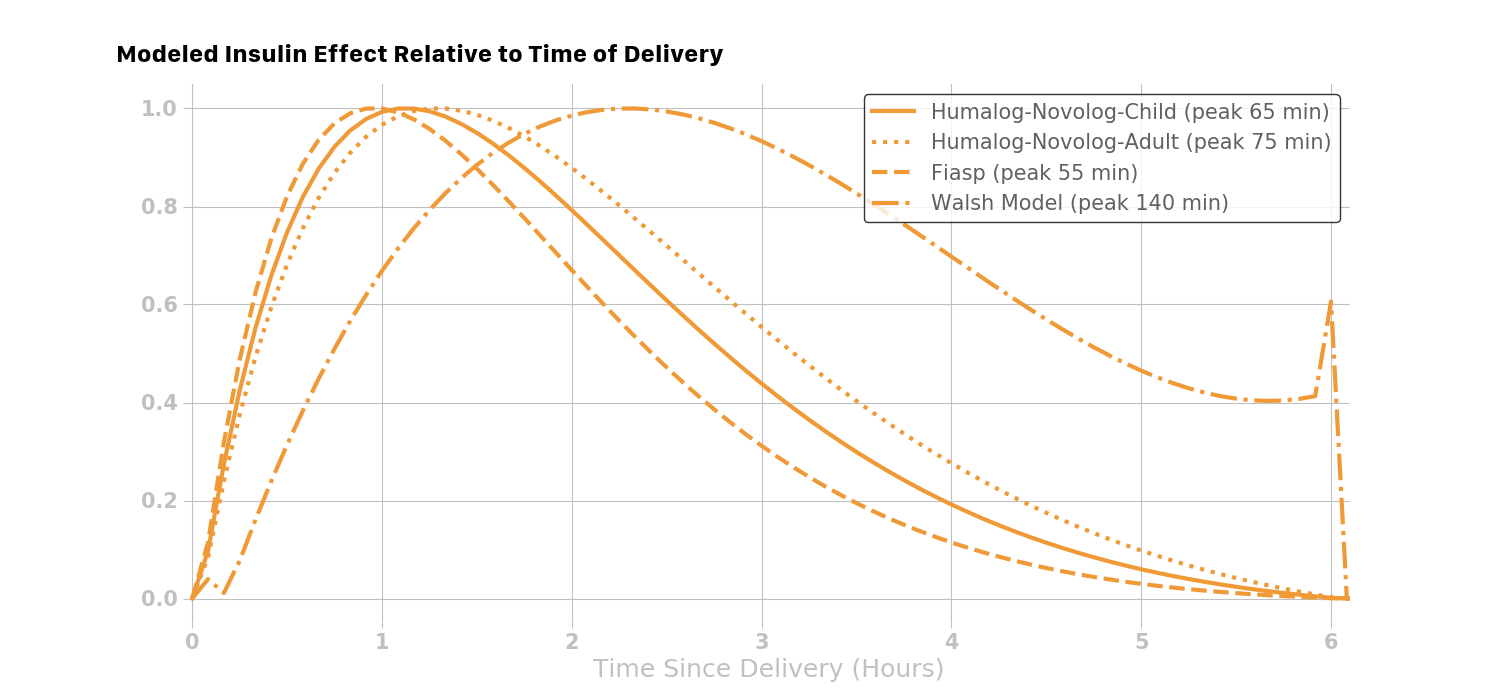
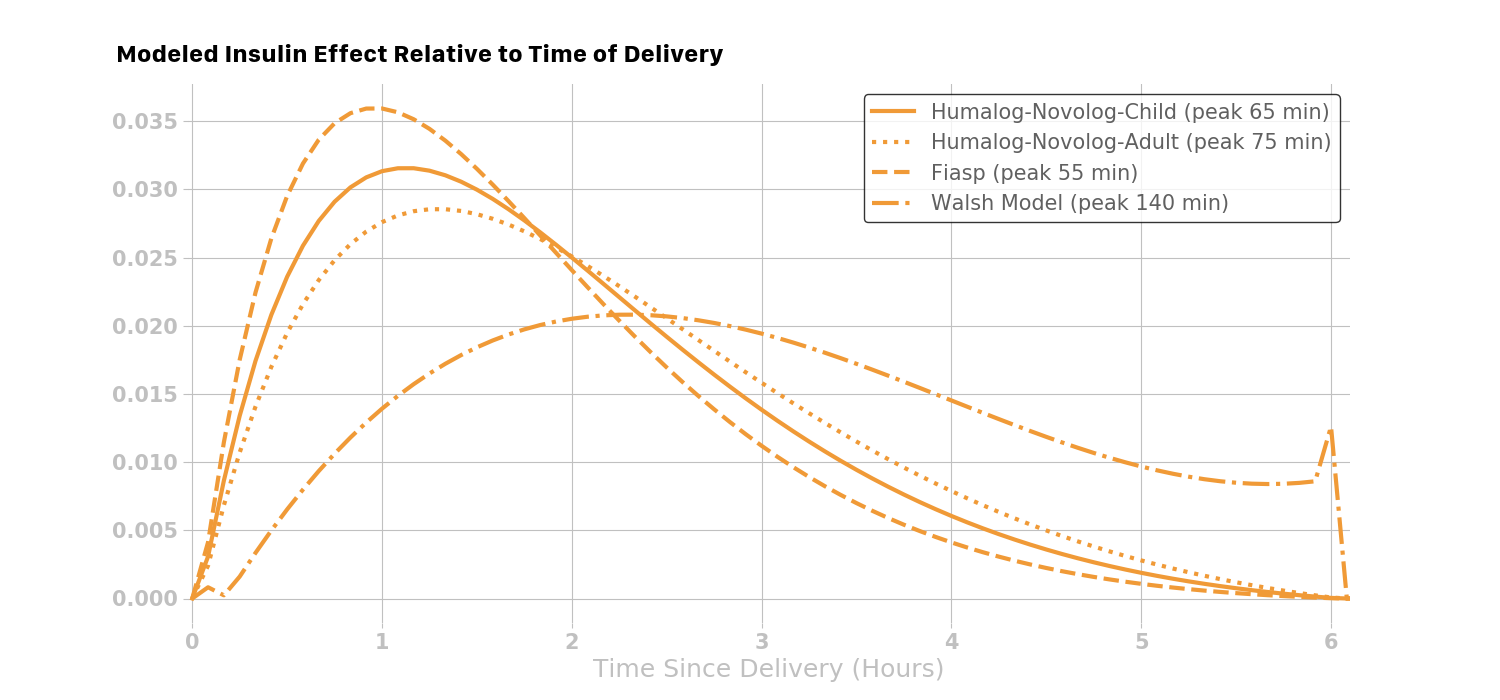
normalize the insulin activity curves so that they reflect a pdf

diff --git a/projects/loop-algorithm/loopTempBasalLogic-InsulinComponent.py b/projects/loop-algorithm/loopTempBasalLogic-InsulinComponent.py
@@ -463,7 +463,7 @@ yLabel = "Insulin Effect Relative to Time of Delivery"
 fig, ax = plt.subplots(figsize=figureSizeInches)
 
 # plot the activty curve by normalizing the delta BG effect
-ax.plot(xData, abs(humNovChild["deltaGlucoseEffect"]) / max(abs(humNovChild["deltaGlucoseEffect"])),
+ax.plot(xData, abs(humNovChild["deltaGlucoseEffect"]) / isf,
         color="#f09a37", lw=4, ls="-")
 
 
@@ -485,10 +485,10 @@ yLabel = "Modeled Insulin Effect Relative to Time of Delivery"
 fig, ax = plt.subplots(figsize=figureSizeInches)
 
 # plot the activty curve by normalizing the delta BG effect
-ax.plot(xData, abs(humNovChild["deltaGlucoseEffect"]) / max(abs(humNovChild["deltaGlucoseEffect"])), color="#f09a37", lw=3, ls="-")
-ax.plot(xData, abs(humNovAdult["deltaGlucoseEffect"]) / max(abs(humNovAdult["deltaGlucoseEffect"])), color="#f09a37", lw=3, ls=":")
-ax.plot(xData, abs(fiasp["deltaGlucoseEffect"]) / max(abs(fiasp["deltaGlucoseEffect"])), color="#f09a37", lw=3, ls="--")
-ax.plot(xData, abs(walsh["deltaGlucoseEffect"]) / max(abs(walsh["deltaGlucoseEffect"])), color="#f09a37", lw=3, ls="-.")
+ax.plot(xData, abs(humNovChild["deltaGlucoseEffect"]) / isf, color="#f09a37", lw=3, ls="-")
+ax.plot(xData, abs(humNovAdult["deltaGlucoseEffect"]) / isf, color="#f09a37", lw=3, ls=":")
+ax.plot(xData, abs(fiasp["deltaGlucoseEffect"]) / isf, color="#f09a37", lw=3, ls="--")
+ax.plot(xData, abs(walsh["deltaGlucoseEffect"]) / isf, color="#f09a37", lw=3, ls="-.")
 
 # run the common figure elements here
 ax = common_figure_elements(ax, xLabel, yLabel, figureFont, labelFontSize, tickLabelFontSize, coord_color)
